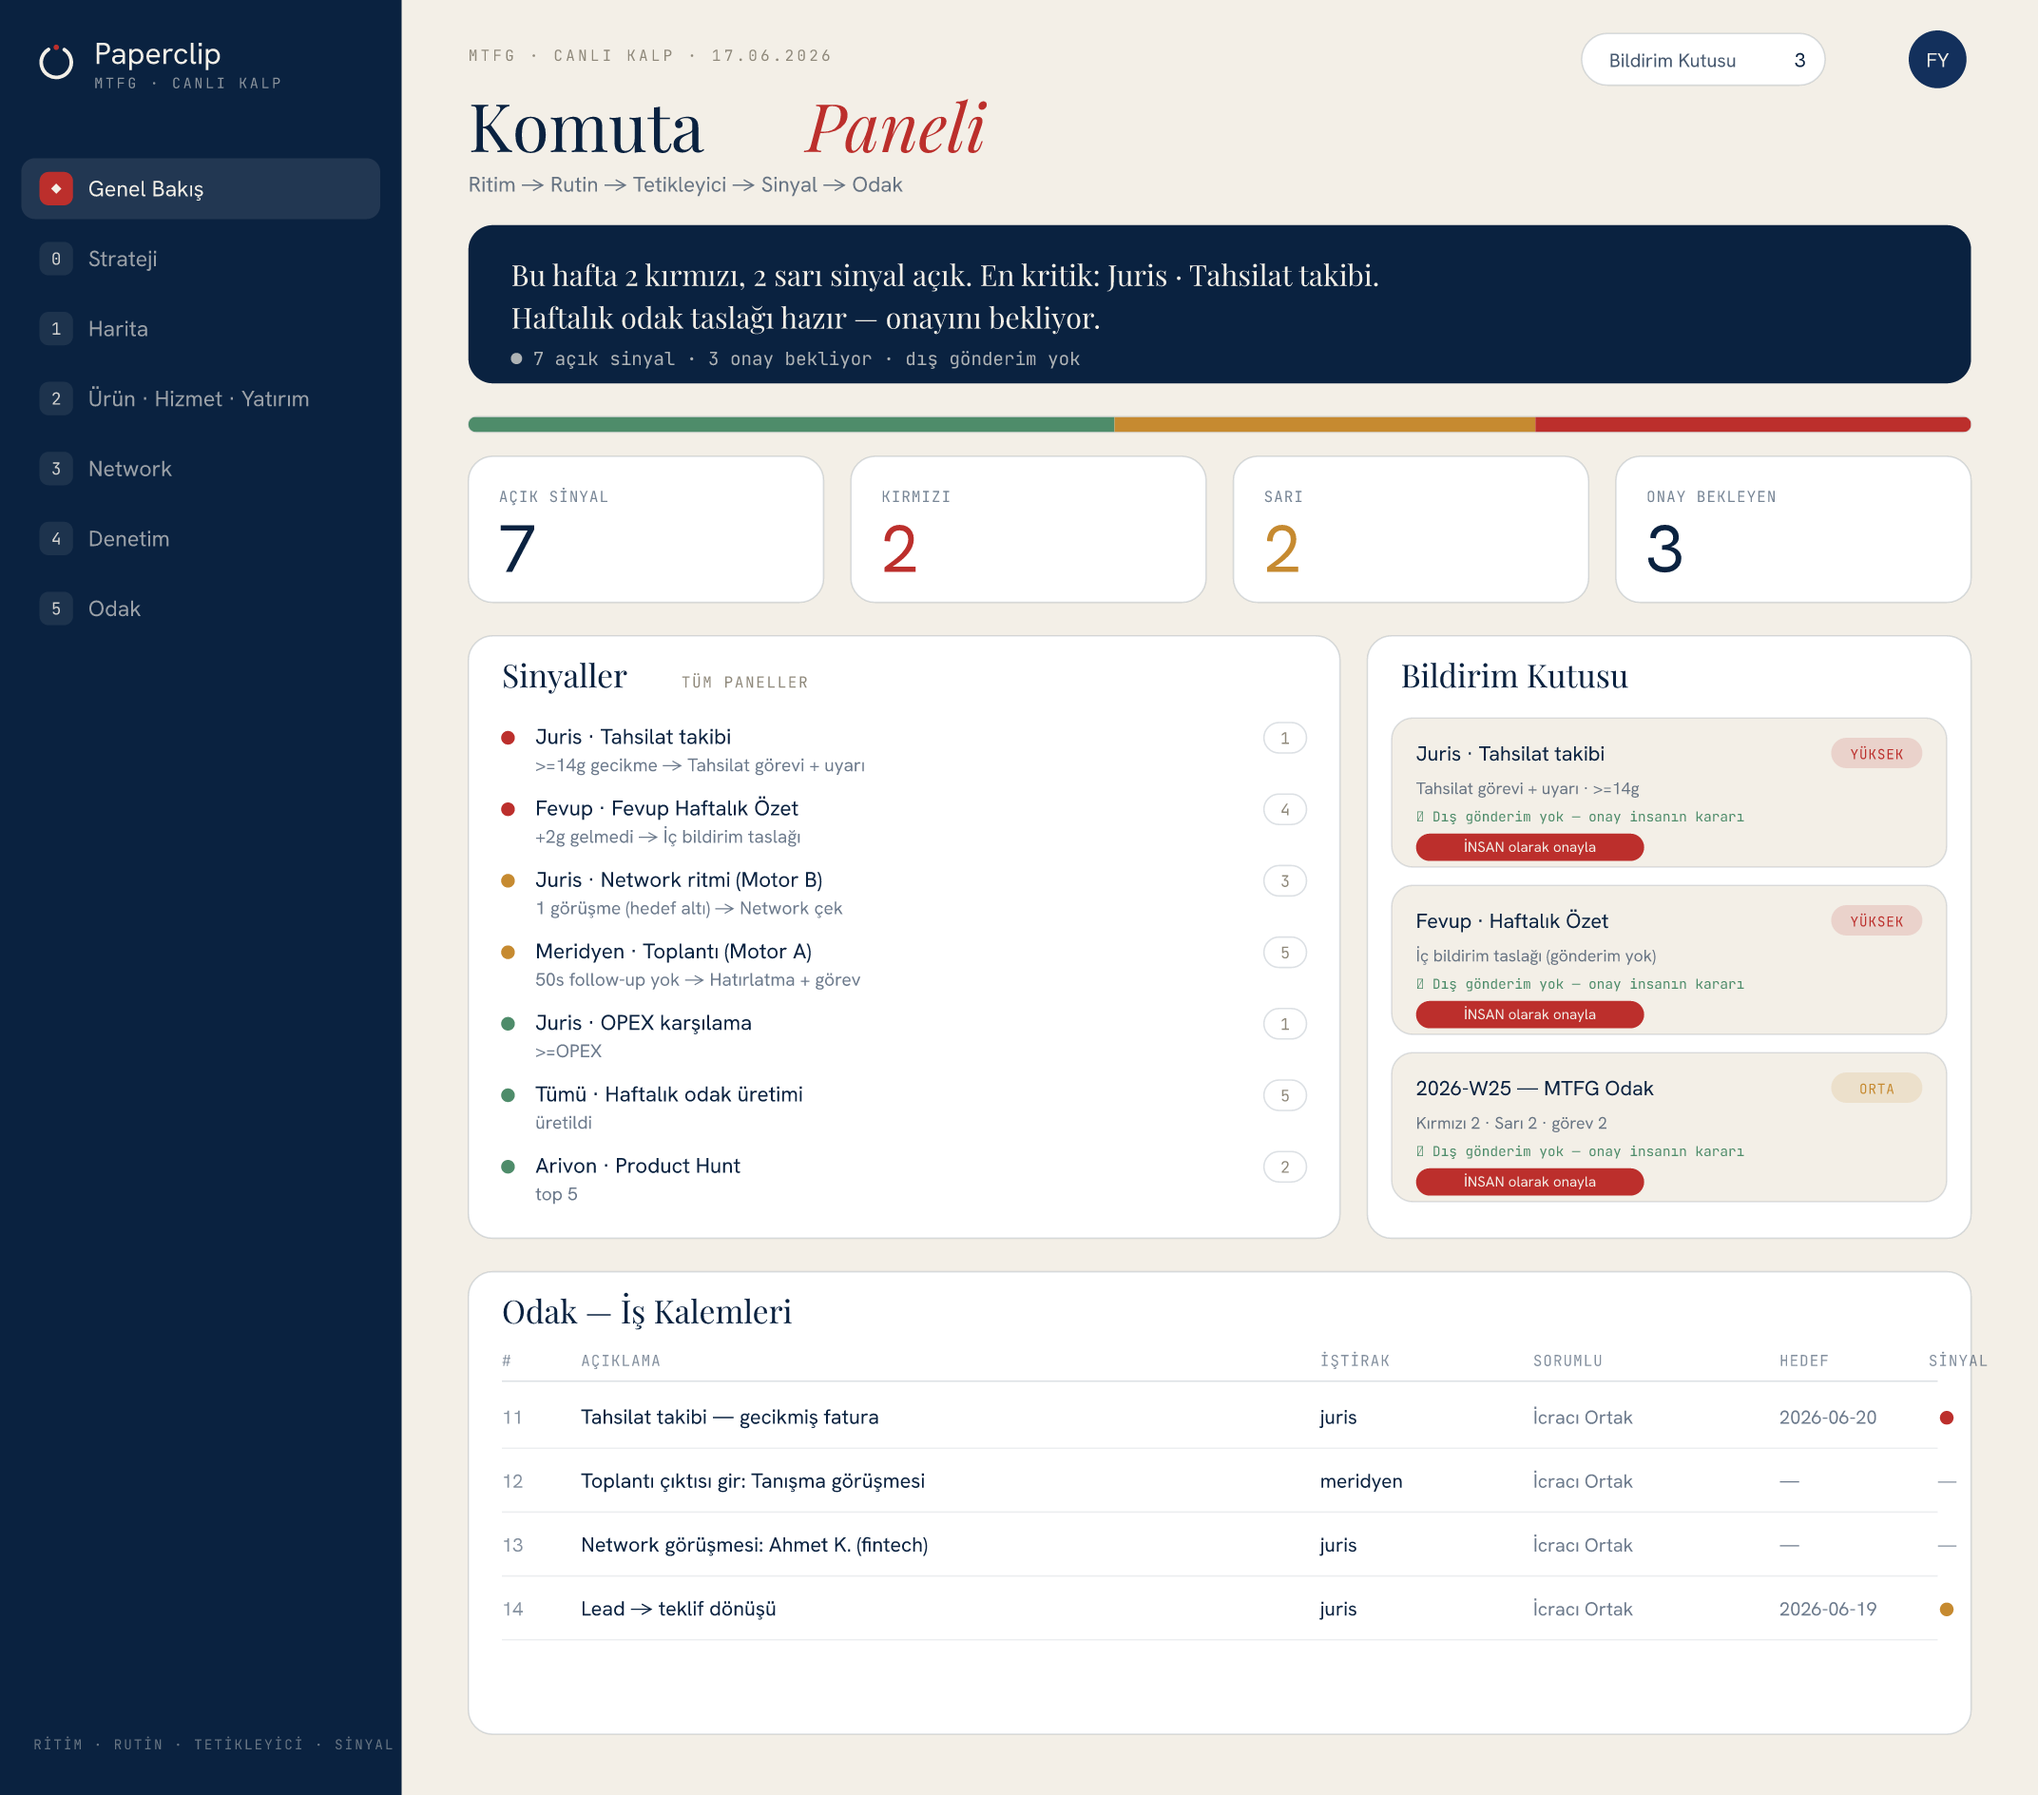
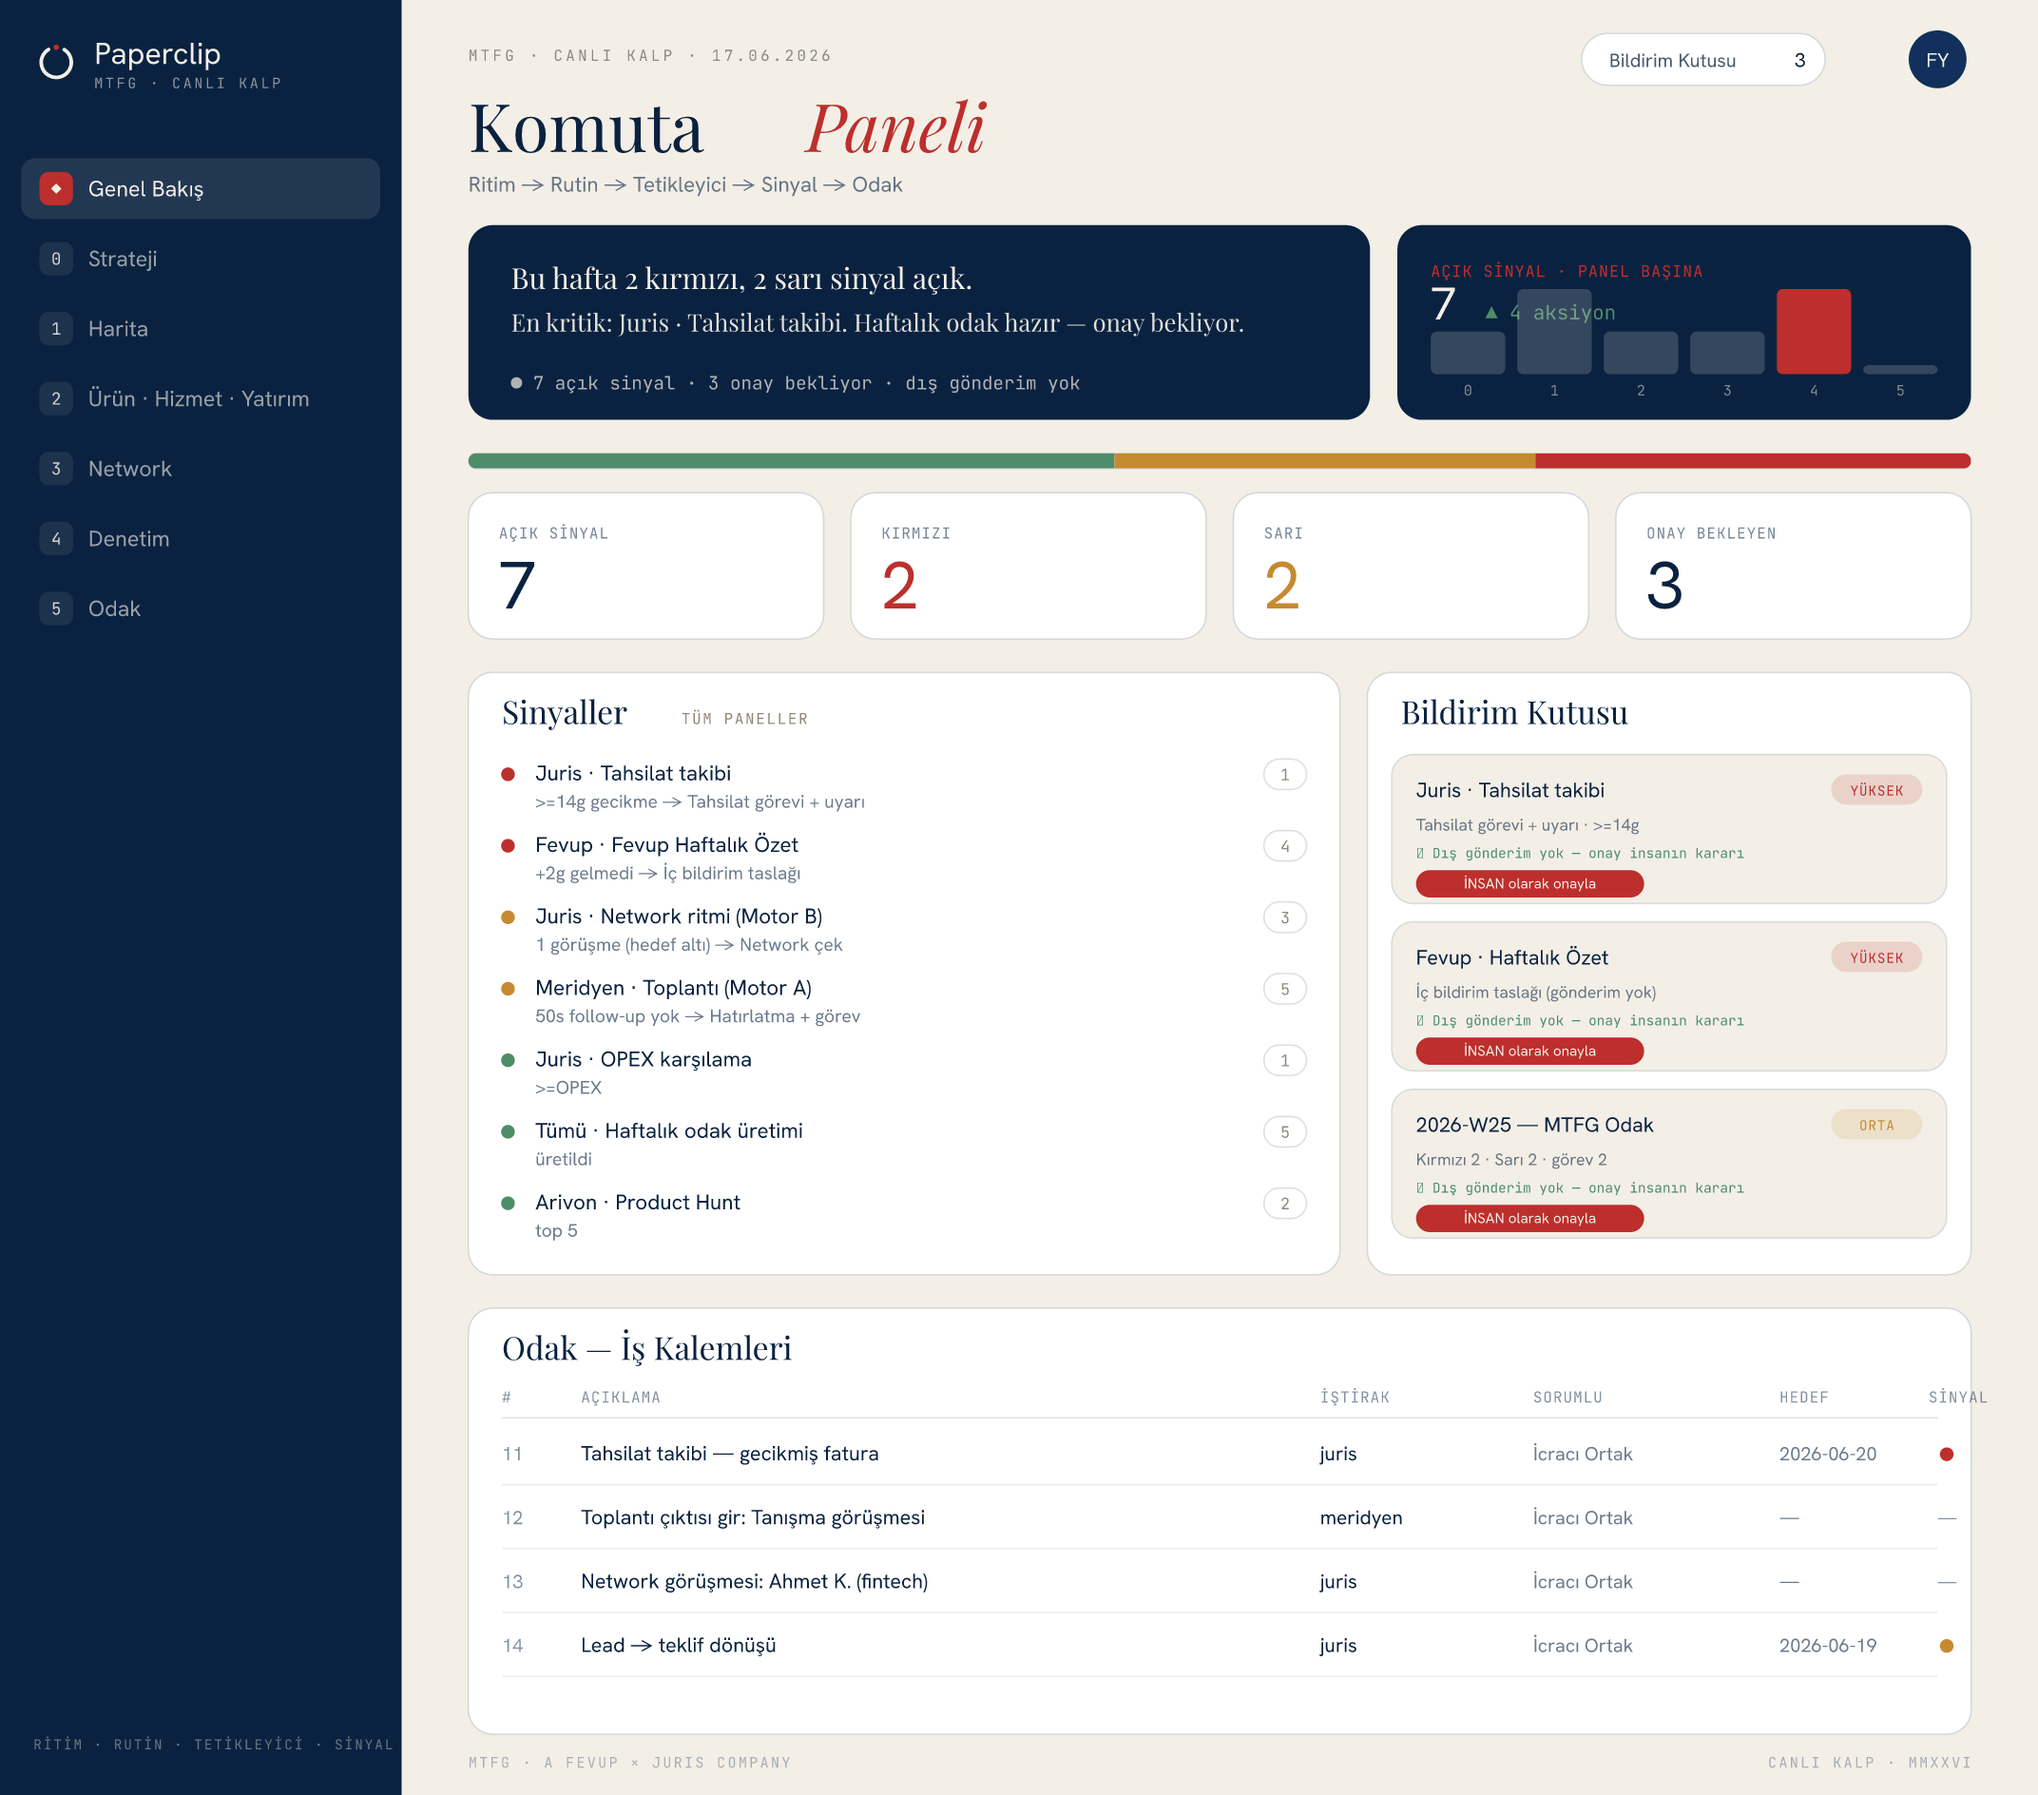
design(ui): Ariwon app imza öğeleri + font ailesi sadakati
- Insight'ın yanına ink metrik kartı + bar grafik (hot bar kırmızı, panel başına
  açık sinyal) + alt runner — Ariwon Digital Assets app ekranına yakınsama
- Font linki Ariwon ağırlıklarına genişletildi (Playfair 400-700+italic, Hanken 300-800)
- Font ailesi sadakati: web app Google Fonts'tan, preview gerçek TTF'lerle (tools/fonts)
- UI build yeşil

Claude-Session: https://claude.ai/code/session_01WxvV6AgWYn8FF4ZATd7odu

diff --git a/ui/src/App.tsx b/ui/src/App.tsx
@@ -40,6 +40,14 @@ export function App() {
   const shown = active === "ALL" ? signals : signals.filter((s) => s.dashboard === active);
   const firstRed = signals.find((s) => s.signal === "RED");
 
+  // Panel başına açık sinyal (metrik kartı bar grafiği)
+  const perPanel = DASHBOARDS.map((d) => ({
+    no: d.no,
+    n: signals.filter((s) => s.dashboard === d.key).length,
+  }));
+  const maxPanel = Math.max(1, ...perPanel.map((x) => x.n));
+  const hotPanel = perPanel.reduce((a, b) => (b.n > a.n ? b : a), perPanel[0]);
+
   async function approve(id: number) {
     try { await api.approve(id, "ferhan"); await load(); }
     catch (e) { alert((e as Error).message); }
@@ -82,16 +90,29 @@ export function App() {
         <h1 className="title">Komuta <span className="hl">Paneli</span></h1>
         <div className="subtitle">Ritim → Rutin → Tetikleyici → Sinyal → Odak</div>
 
-        {/* Insight banner (ink) */}
-        <div className="insight">
-          <div className="lead">
-            {firstRed ? (
-              <>Bu hafta <span className="em">{counts.RED} kırmızı</span>, {counts.YELLOW} sarı sinyal açık. En kritik: <span className="em">{firstRed.org_label} · {firstRed.source}</span>. Haftalık odak taslağı hazır — onayını bekliyor.</>
-            ) : (
-              <>Sistem büyük ölçüde <span className="em">yeşil</span>. {counts.YELLOW} sarı sinyal izlemede. Kaygı sistemde, sende değil.</>
-            )}
+        {/* Insight + Metric band (ink) */}
+        <div className="band">
+          <div className="insight">
+            <div className="lead">
+              {firstRed ? (
+                <>Bu hafta <span className="em">{counts.RED} kırmızı</span>, {counts.YELLOW} sarı sinyal açık. En kritik: <span className="em">{firstRed.org_label} · {firstRed.source}</span>. Haftalık odak taslağı hazır — onayını bekliyor.</>
+              ) : (
+                <>Sistem büyük ölçüde <span className="em">yeşil</span>. {counts.YELLOW} sarı sinyal izlemede. Kaygı sistemde, sende değil.</>
+              )}
+            </div>
+            <div className="conf">● {signals.length} açık sinyal · {notifs.length} onay bekliyor · dış gönderim yok</div>
           </div>
-          <div className="conf">● {signals.length} açık sinyal · {notifs.length} onay bekliyor · dış gönderim yok</div>
+          <div className="metric">
+            <div className="mlabel">Açık Sinyal · Panel Başına</div>
+            <div className="mbig">{signals.length} <small>▲ {counts.RED + counts.YELLOW} aksiyon</small></div>
+            <div className="bars">
+              {perPanel.map((x) => (
+                <div key={x.no} className={`bar ${x.no === hotPanel.no && x.n > 0 ? "hot" : ""}`}
+                  style={{ height: `${Math.max(8, (x.n / maxPanel) * 100)}%` }} />
+              ))}
+            </div>
+            <div className="blabels">{perPanel.map((x) => <span key={x.no}>{x.no}</span>)}</div>
+          </div>
         </div>
 
         {/* Signal strip */}
@@ -167,6 +188,11 @@ export function App() {
               ))}
             </tbody>
           </table>
+        </div>
+
+        <div className="runner-bot">
+          <span>MTFG · A Fevup × Juris Company</span>
+          <span>Canlı Kalp · MMXXVI</span>
         </div>
       </main>
     </div>

diff --git a/ui/src/global.css b/ui/src/global.css
@@ -61,14 +61,28 @@ body {
 .title .hl { color: var(--red); font-style: italic; }
 .subtitle { margin-top: 12px; font-size: 15px; opacity: 0.6; }
 
-/* ── Insight (ink) banner ── */
+/* ── Insight + Metric band ── */
+.band { display: grid; grid-template-columns: 1.5fr 1fr; gap: 18px; margin: 24px 0; }
 .insight {
   background: var(--ink); color: var(--paper); border-radius: var(--radius-lg);
-  padding: 28px 32px; margin: 24px 0; box-shadow: var(--soft);
+  padding: 28px 32px; box-shadow: var(--soft); display: flex; flex-direction: column;
 }
 .insight .lead { font-family: var(--font-display); font-weight: 500; font-size: 23px; line-height: 1.4; }
 .insight .lead .em { color: #e9b3ad; font-style: italic; }
-.insight .conf { font-family: var(--font-mono); font-size: 12px; opacity: 0.7; margin-top: 14px; }
+.insight .conf { font-family: var(--font-mono); font-size: 12px; opacity: 0.7; margin-top: auto; padding-top: 16px; }
+
+.metric { background: var(--ink); color: var(--paper); border-radius: var(--radius-lg); padding: 24px 26px; box-shadow: var(--soft); display: flex; flex-direction: column; }
+.metric .mlabel { font-family: var(--font-mono); font-size: 11px; letter-spacing: 0.12em; color: var(--red); text-transform: uppercase; }
+.metric .mbig { font-family: var(--font-body); font-weight: 700; font-size: 40px; letter-spacing: -0.02em; margin-top: 4px; }
+.metric .mbig small { font-size: 16px; color: var(--live-soft); font-weight: 600; }
+.metric .bars { display: flex; align-items: flex-end; gap: 8px; height: 84px; margin-top: auto; }
+.metric .bars .bar { flex: 1; background: rgba(243, 239, 231, 0.18); border-radius: 5px; min-height: 4px; }
+.metric .bars .bar.hot { background: var(--red); }
+.metric .blabels { display: flex; gap: 8px; margin-top: 8px; }
+.metric .blabels span { flex: 1; text-align: center; font-family: var(--font-mono); font-size: 10px; opacity: 0.5; }
+
+/* ── Runner (alt) ── */
+.runner-bot { display: flex; justify-content: space-between; font-family: var(--font-mono); font-size: 10px; letter-spacing: 0.18em; text-transform: uppercase; opacity: 0.32; margin-top: 30px; }
 
 /* ── Signal strip ── */
 .strip { display: flex; height: 10px; border-radius: 100px; overflow: hidden; border: 1px solid var(--line-ink); margin-bottom: 22px; background: #fff; }

diff --git a/ui/index.html b/ui/index.html
@@ -7,7 +7,7 @@
     <link rel="preconnect" href="https://fonts.googleapis.com" />
     <link rel="preconnect" href="https://fonts.gstatic.com" crossorigin />
     <link
-      href="https://fonts.googleapis.com/css2?family=Playfair+Display:ital,wght@0,400;0,500;0,600;1,400;1,500&family=Hanken+Grotesk:wght@400;500;600;700&family=JetBrains+Mono:wght@400;500&display=swap"
+      href="https://fonts.googleapis.com/css2?family=Playfair+Display:ital,wght@0,400;0,500;0,600;0,700;1,400;1,500&family=Hanken+Grotesk:wght@300;400;500;600;700;800&family=JetBrains+Mono:wght@400;500&display=swap"
       rel="stylesheet"
     />
   </head>

diff --git a/docs/ledger/SESSION-LOG.md b/docs/ledger/SESSION-LOG.md
@@ -15,6 +15,14 @@
 
 **Sıradaki:** İNSAN onayı → E15 Config/Hedef, E16 Rutin Keşfi.
 
+## 2026-06-17 · Oturum #12b — UI rafinasyon: metrik kartı + font sadakati (tekrar vurgu)
+
+| Aktör | Kayıt |
+|---|---|
+| **COWORK (Claude)** | 5 tasarım dosyası tam okundu. Ariwon app dashboard imza öğeleri eklendi: ink **metrik kartı + bar grafik** (hot bar kırmızı, panel başına açık sinyal), alt **runner**. Font linki Ariwon ağırlıklarına genişletildi (Playfair 400-700+italic, Hanken 300-800). Font ailesine sadakat teyit: web app Google Fonts + preview gerçek TTF. UI build yeşil; preview yeniden gösterildi. |
+| **İNSAN (Ferhan)** | "Font ailesi önemli, bağlı kal!!" (tekrar). |
+| **CODE** | branch `claude/laughing-volta-89nze9` · commit (UI rafinasyon) |
+
 ---
 
 ## 2026-06-17 · Oturum #11 — v0.3 / E12 Scheduler (ritim cron'ları)
